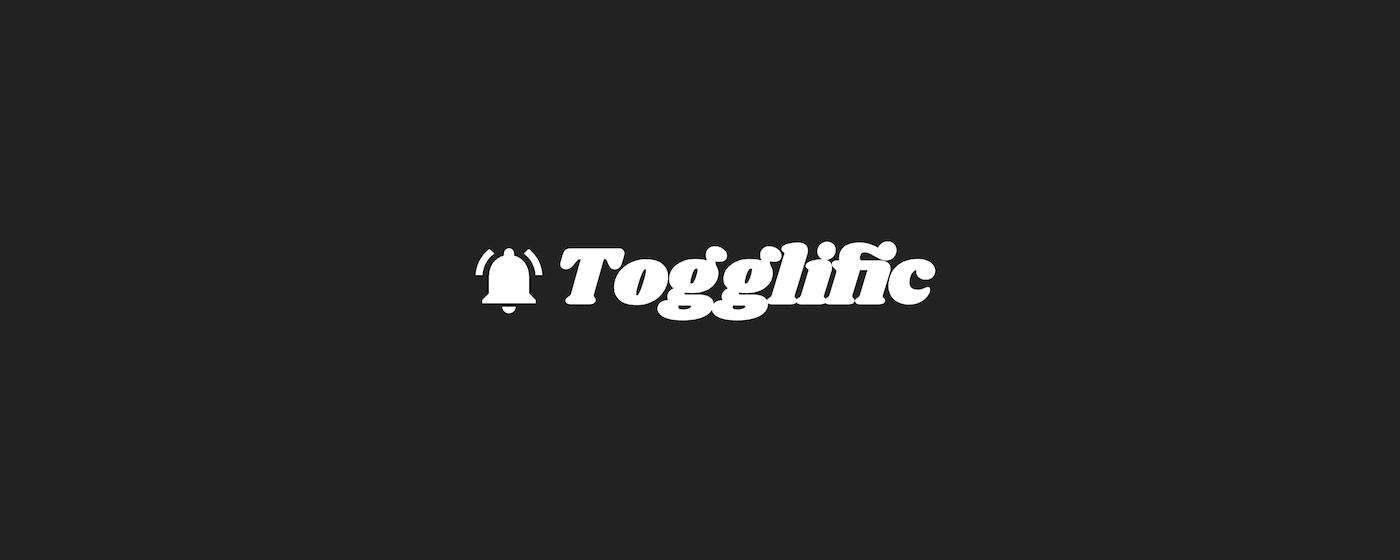
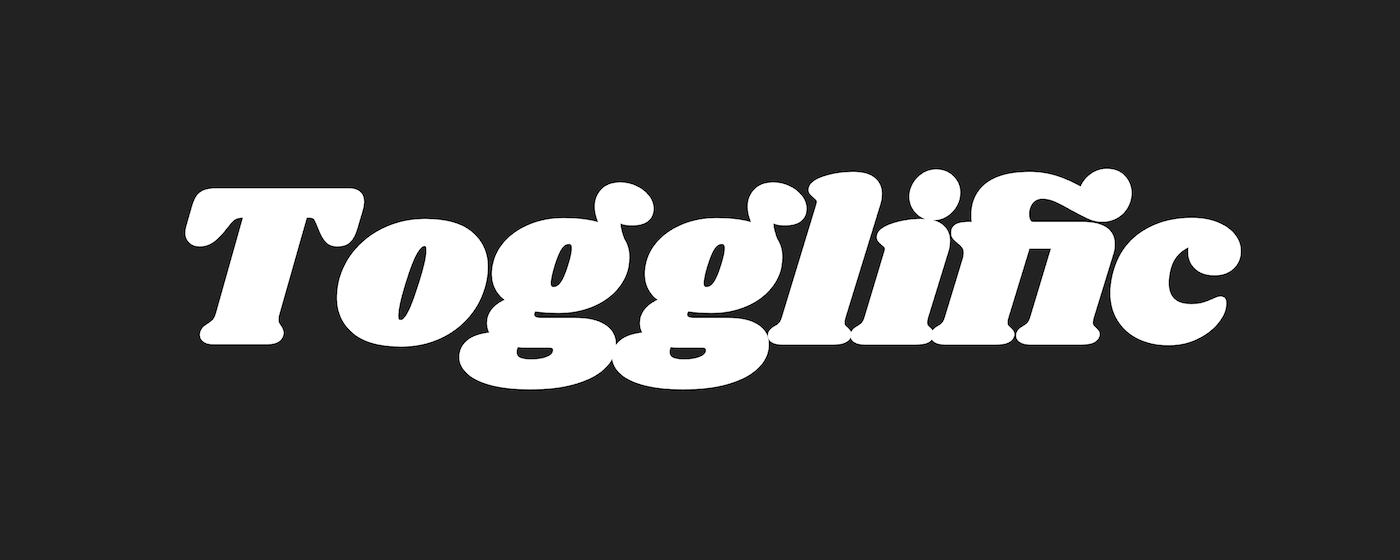
Updates

Changed region(s): [[0.1229, 0.3036, 0.8907, 0.6982]]

diff --git a/index.html b/index.html
@@ -25,17 +25,6 @@
           <div class="grid grid--header">
             <div class="grid__item">
               <h1 class="header__logo">
-                <svg
-                  class="header__logo-icon"
-                  viewBox="0 0 48 48"
-                  aria-hidden="true"
-                  focusable="false"
-                >
-                  <use
-                    xmlns:xlink="https://www.w3.org/1999/xlink"
-                    xlink:href="#bell"
-                  ></use>
-                </svg>
                 <span class="header__logo-text logo-font logo-font--light">
                   Togglific
                 </span>
@@ -2203,17 +2192,6 @@
                 </a>
               </li>
               <li class="footer__list-item">
-                <svg
-                  class="icon__footer-list"
-                  viewBox="0 0 48 48"
-                  aria-hidden="true"
-                  focusable="false"
-                >
-                  <use
-                    xmlns:xlink="https://www.w3.org/1999/xlink"
-                    xlink:href="#bell"
-                  ></use>
-                </svg>
                 <span class="logo-font logo-font--light">Togglific</span>
                 is
                 <span role="img" aria-label="coded">⌨</span>
